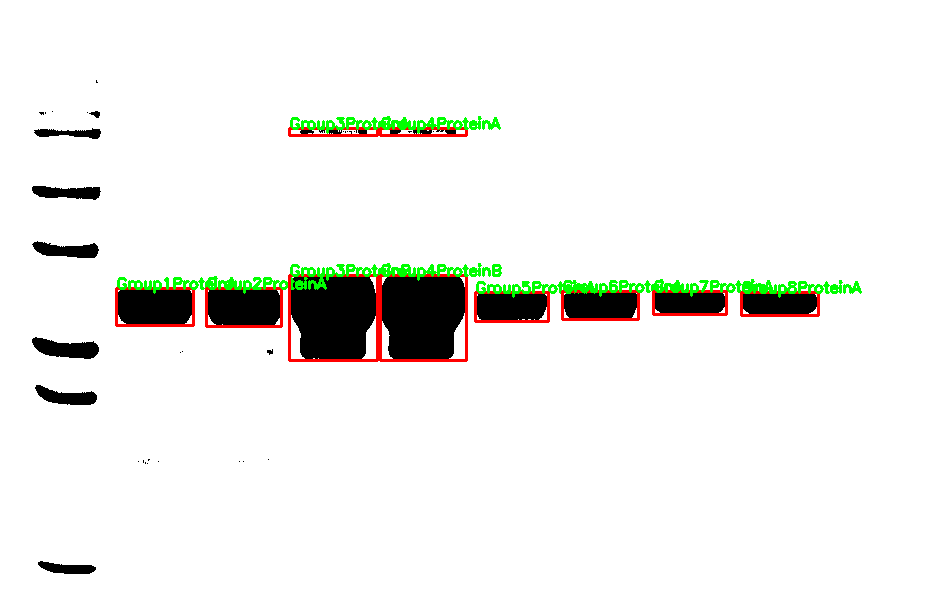
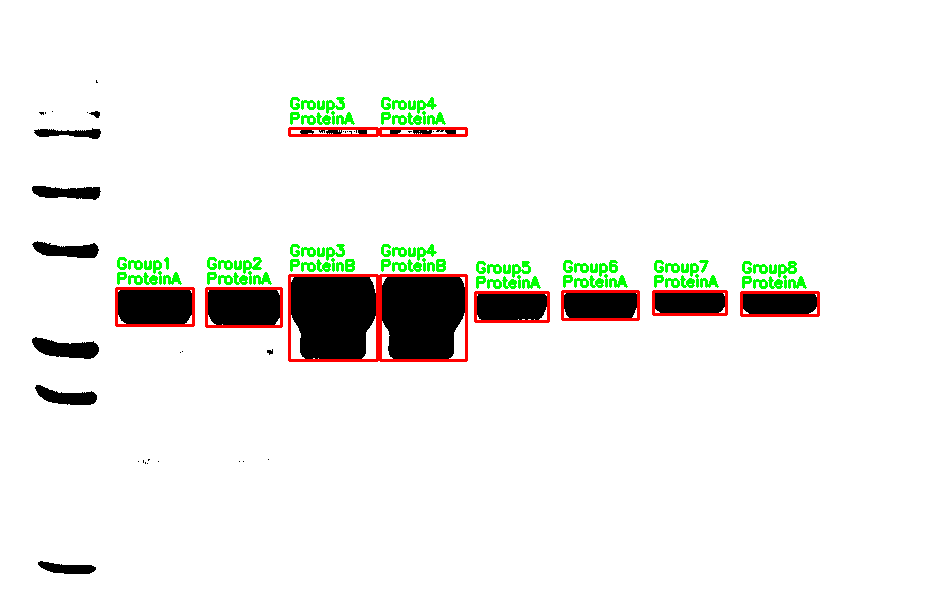
切分：不同组蛋白条带检测

Changed region(s): [[0.1226, 0.3881, 0.9197, 0.5075], [0.3066, 0.1493, 0.5211, 0.2388]]

diff --git a/AutoWB/AutoWBobj.py b/AutoWB/AutoWBobj.py
@@ -1,0 +1,73 @@
+import os
+import cv2
+import numpy as np
+import json
+
+file_path = os.path.dirname(os.path.abspath(__file__))#读取文件路径
+pic_name = "WBpic_binary.png" #读取图片名称
+WB_pic = cv2.imread(os.path.join(file_path,pic_name), -1) #直接读取二值图
+
+def discern_obj(pic:np.array):
+    
+    array = 1 * (pic < 128)  #白色转化为0,黑色转化为1
+
+    row, col = array.shape
+
+    x_list_obj = [] #创建蛋白 x坐标列表
+    f = open("./AutoWB/marker_end.txt", "r")
+    flag = int(f.read())+1 #防止从头开始，从marker后1位开始遍历
+
+    for i in range (flag, col): #当x满足条件后根据flag同时跳跃
+        x_obj_mono = []#每组蛋白条带x坐标范围
+        for j in range(2):#求蛋白条带x坐标范围
+            for x in range(flag, col):
+                if (sum(array[:,x]) > 3) != (sum(array[:,x-1])> 3): #当色块发生变化
+                    x_obj_mono.append(x)
+                    flag = x+1
+                    if j == 1:
+                        x_list_obj.append(x_obj_mono)
+                    break #j+1
+
+
+    protein_dict = {} #创建所有蛋白组，key为第num组，value为所有y值
+    for num in range(0,len(x_list_obj)): #遍历所有蛋白
+        y_list_obj = [] #蛋白条带所有蛋白y坐标范围列表
+        y_obj_mono = [] #每组蛋白条带每个y坐标范围
+        cycle = 0 #ymin ymax循环
+        for y in range(row):   
+            if (sum(array[y,x_list_obj[num][0]:x_list_obj[num][1]+1]) > 10)!= (sum(array[y-1,x_list_obj[num][0]:x_list_obj[num][1]+1]) > 10): #在第num条蛋白带范围里检索突变
+                y_obj_mono.append(y)#第num条蛋白带每组y坐标范围
+                cycle = cycle + 1
+                if cycle == 2:
+                    y_list_obj.append(y_obj_mono)
+                    y_obj_mono = []
+                    cycle = 0
+        protein_dict['第'+str(num+1)+'组'] = y_list_obj
+
+    
+    img = cv2.imread(os.path.join(file_path,pic_name))#添加图片注释
+    for num in range(0,len(x_list_obj)): #遍历所有蛋白组
+        groupnumber = num + 1
+        for obj in range(0,len(protein_dict['第'+str(groupnumber)+'组'])): #遍历某个蛋白组元素
+            x1 = x_list_obj[num][0]
+            y1 = protein_dict['第'+str(groupnumber)+'组'][obj][0]
+            x2 = x_list_obj[num][1]
+            y2 = protein_dict['第'+str(groupnumber)+'组'][obj][1]
+            cv2.rectangle(img, (x1, y1), (x2, y2), (0, 0, 255), 2) #绘制方框
+            label = 'Group'+str(groupnumber)+'\n'+'Protein'+chr(65+obj) #添加换行标签
+            for i, txt in enumerate(label.split('\n')): #逐行添加换行文字
+                y = y1-20+i*15
+                cv2.putText(img, txt, (x1,y), cv2.FONT_HERSHEY_SIMPLEX, 0.5, (0, 255, 0), 2) #添加文字，坐标, 字体，字体大小，颜色，粗细
+
+    cv2.imwrite(os.path.join(file_path,"WBpic_discern.png"),img)#添加至图片上
+
+    with open('./AutoWB/data.json', 'w') as f:
+        json.dump(protein_dict, f)
+
+    return protein_dict
+    
+
+
+
+if __name__ == '__main__': #直接运行文件
+    print(discern_obj(WB_pic))
